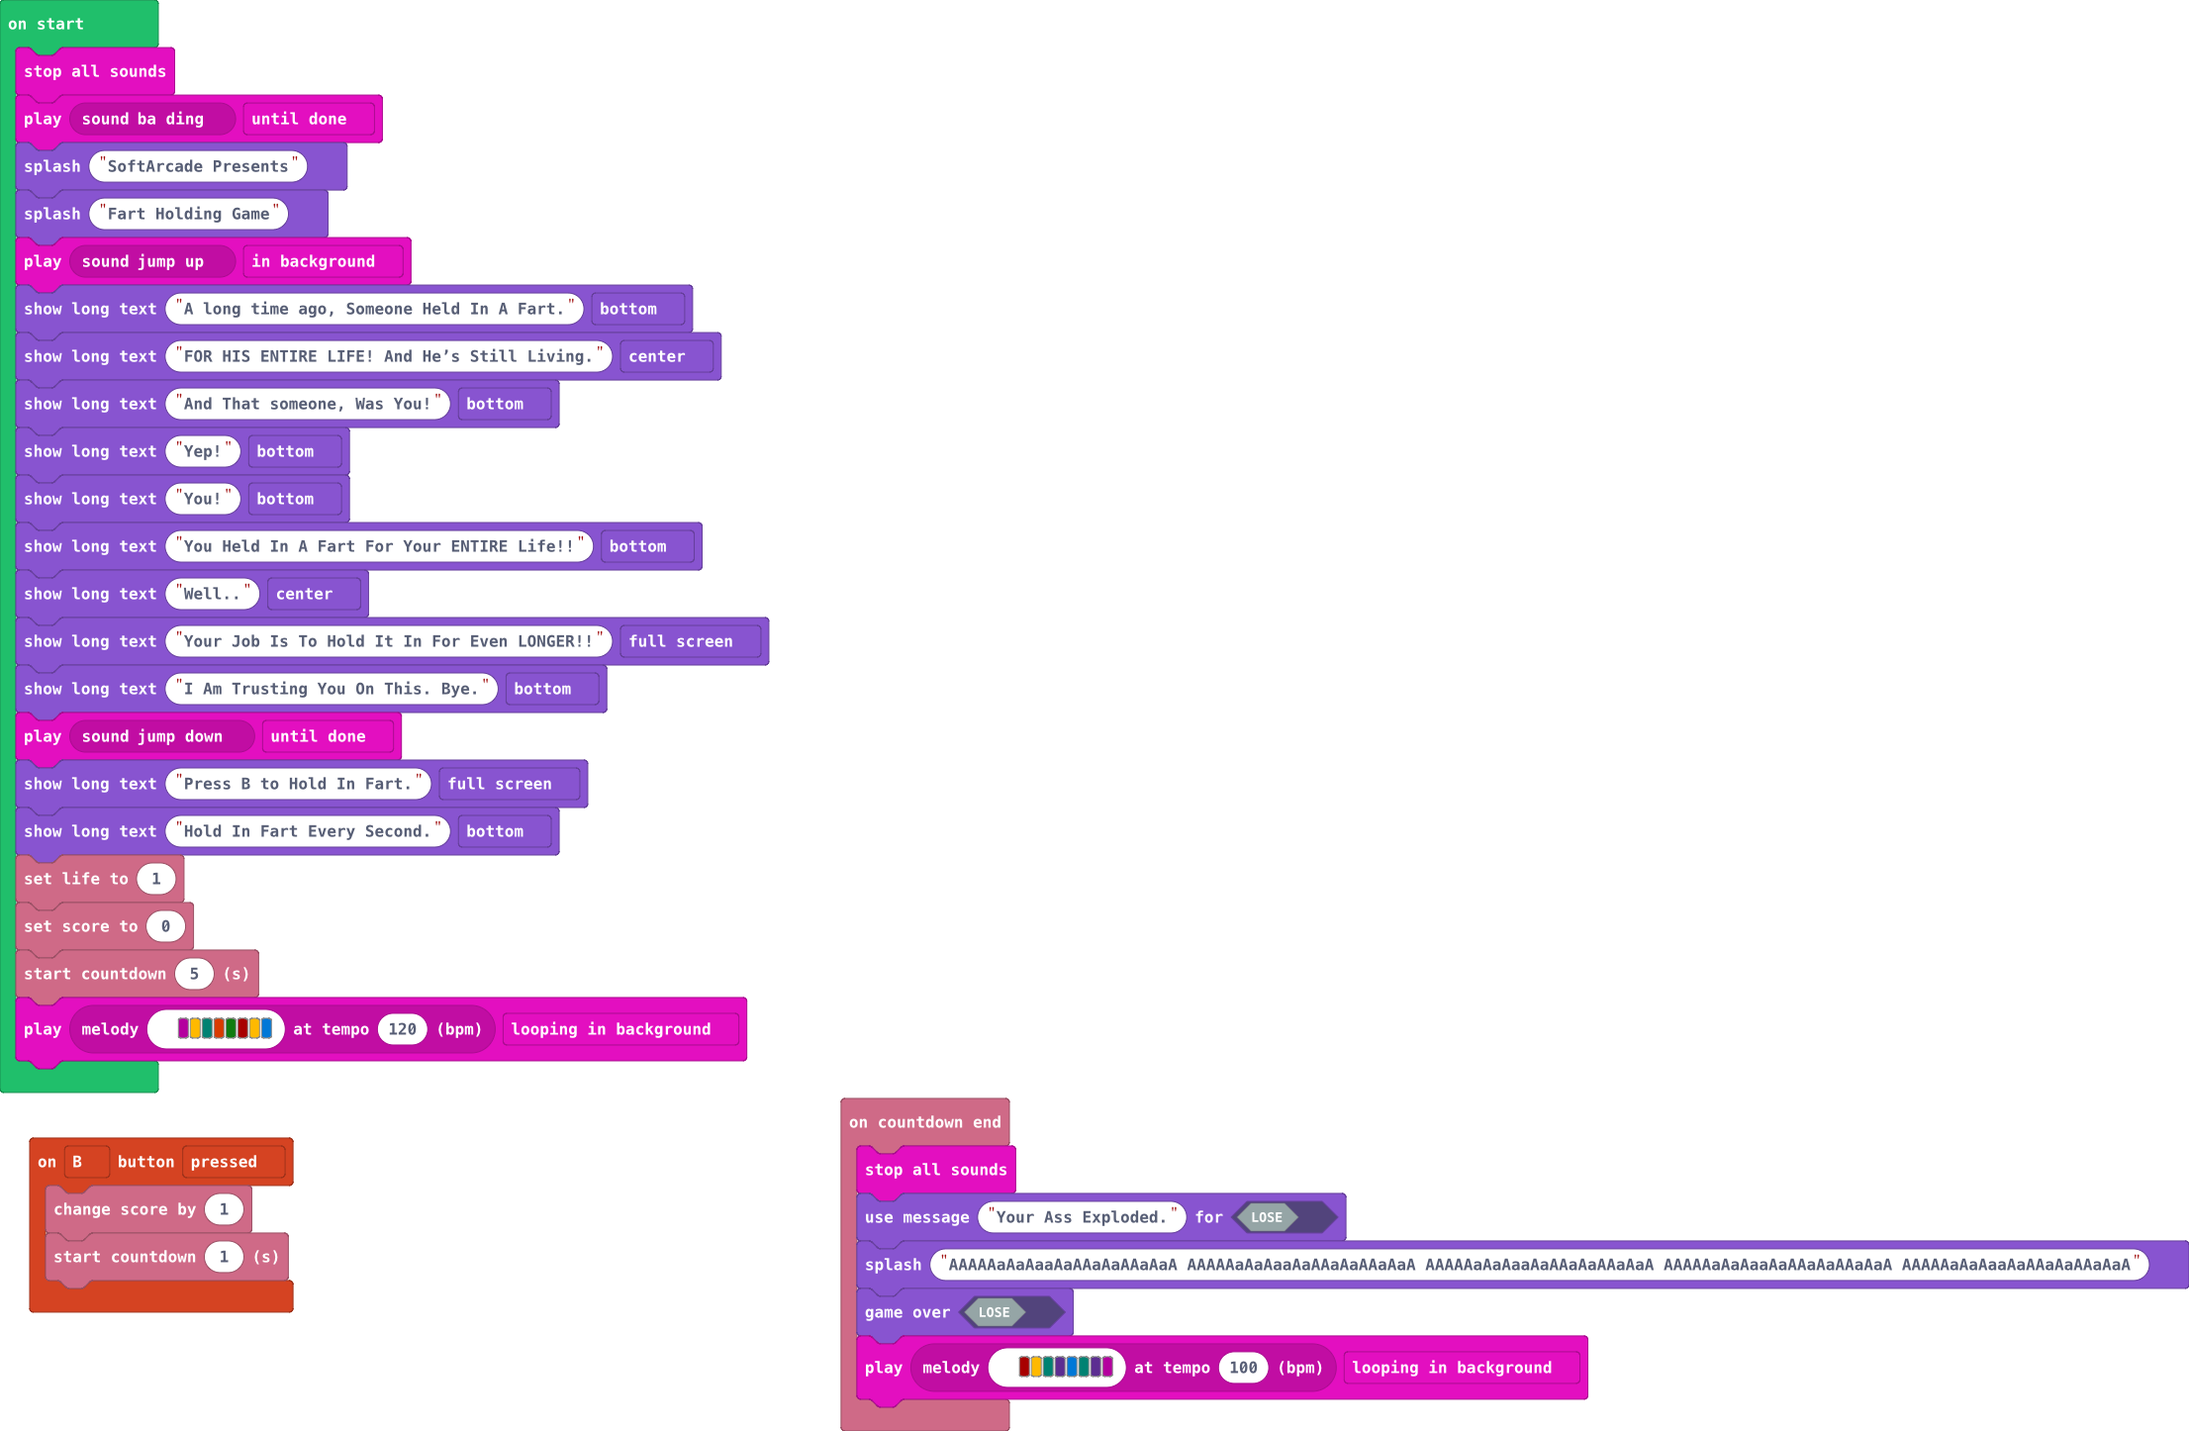
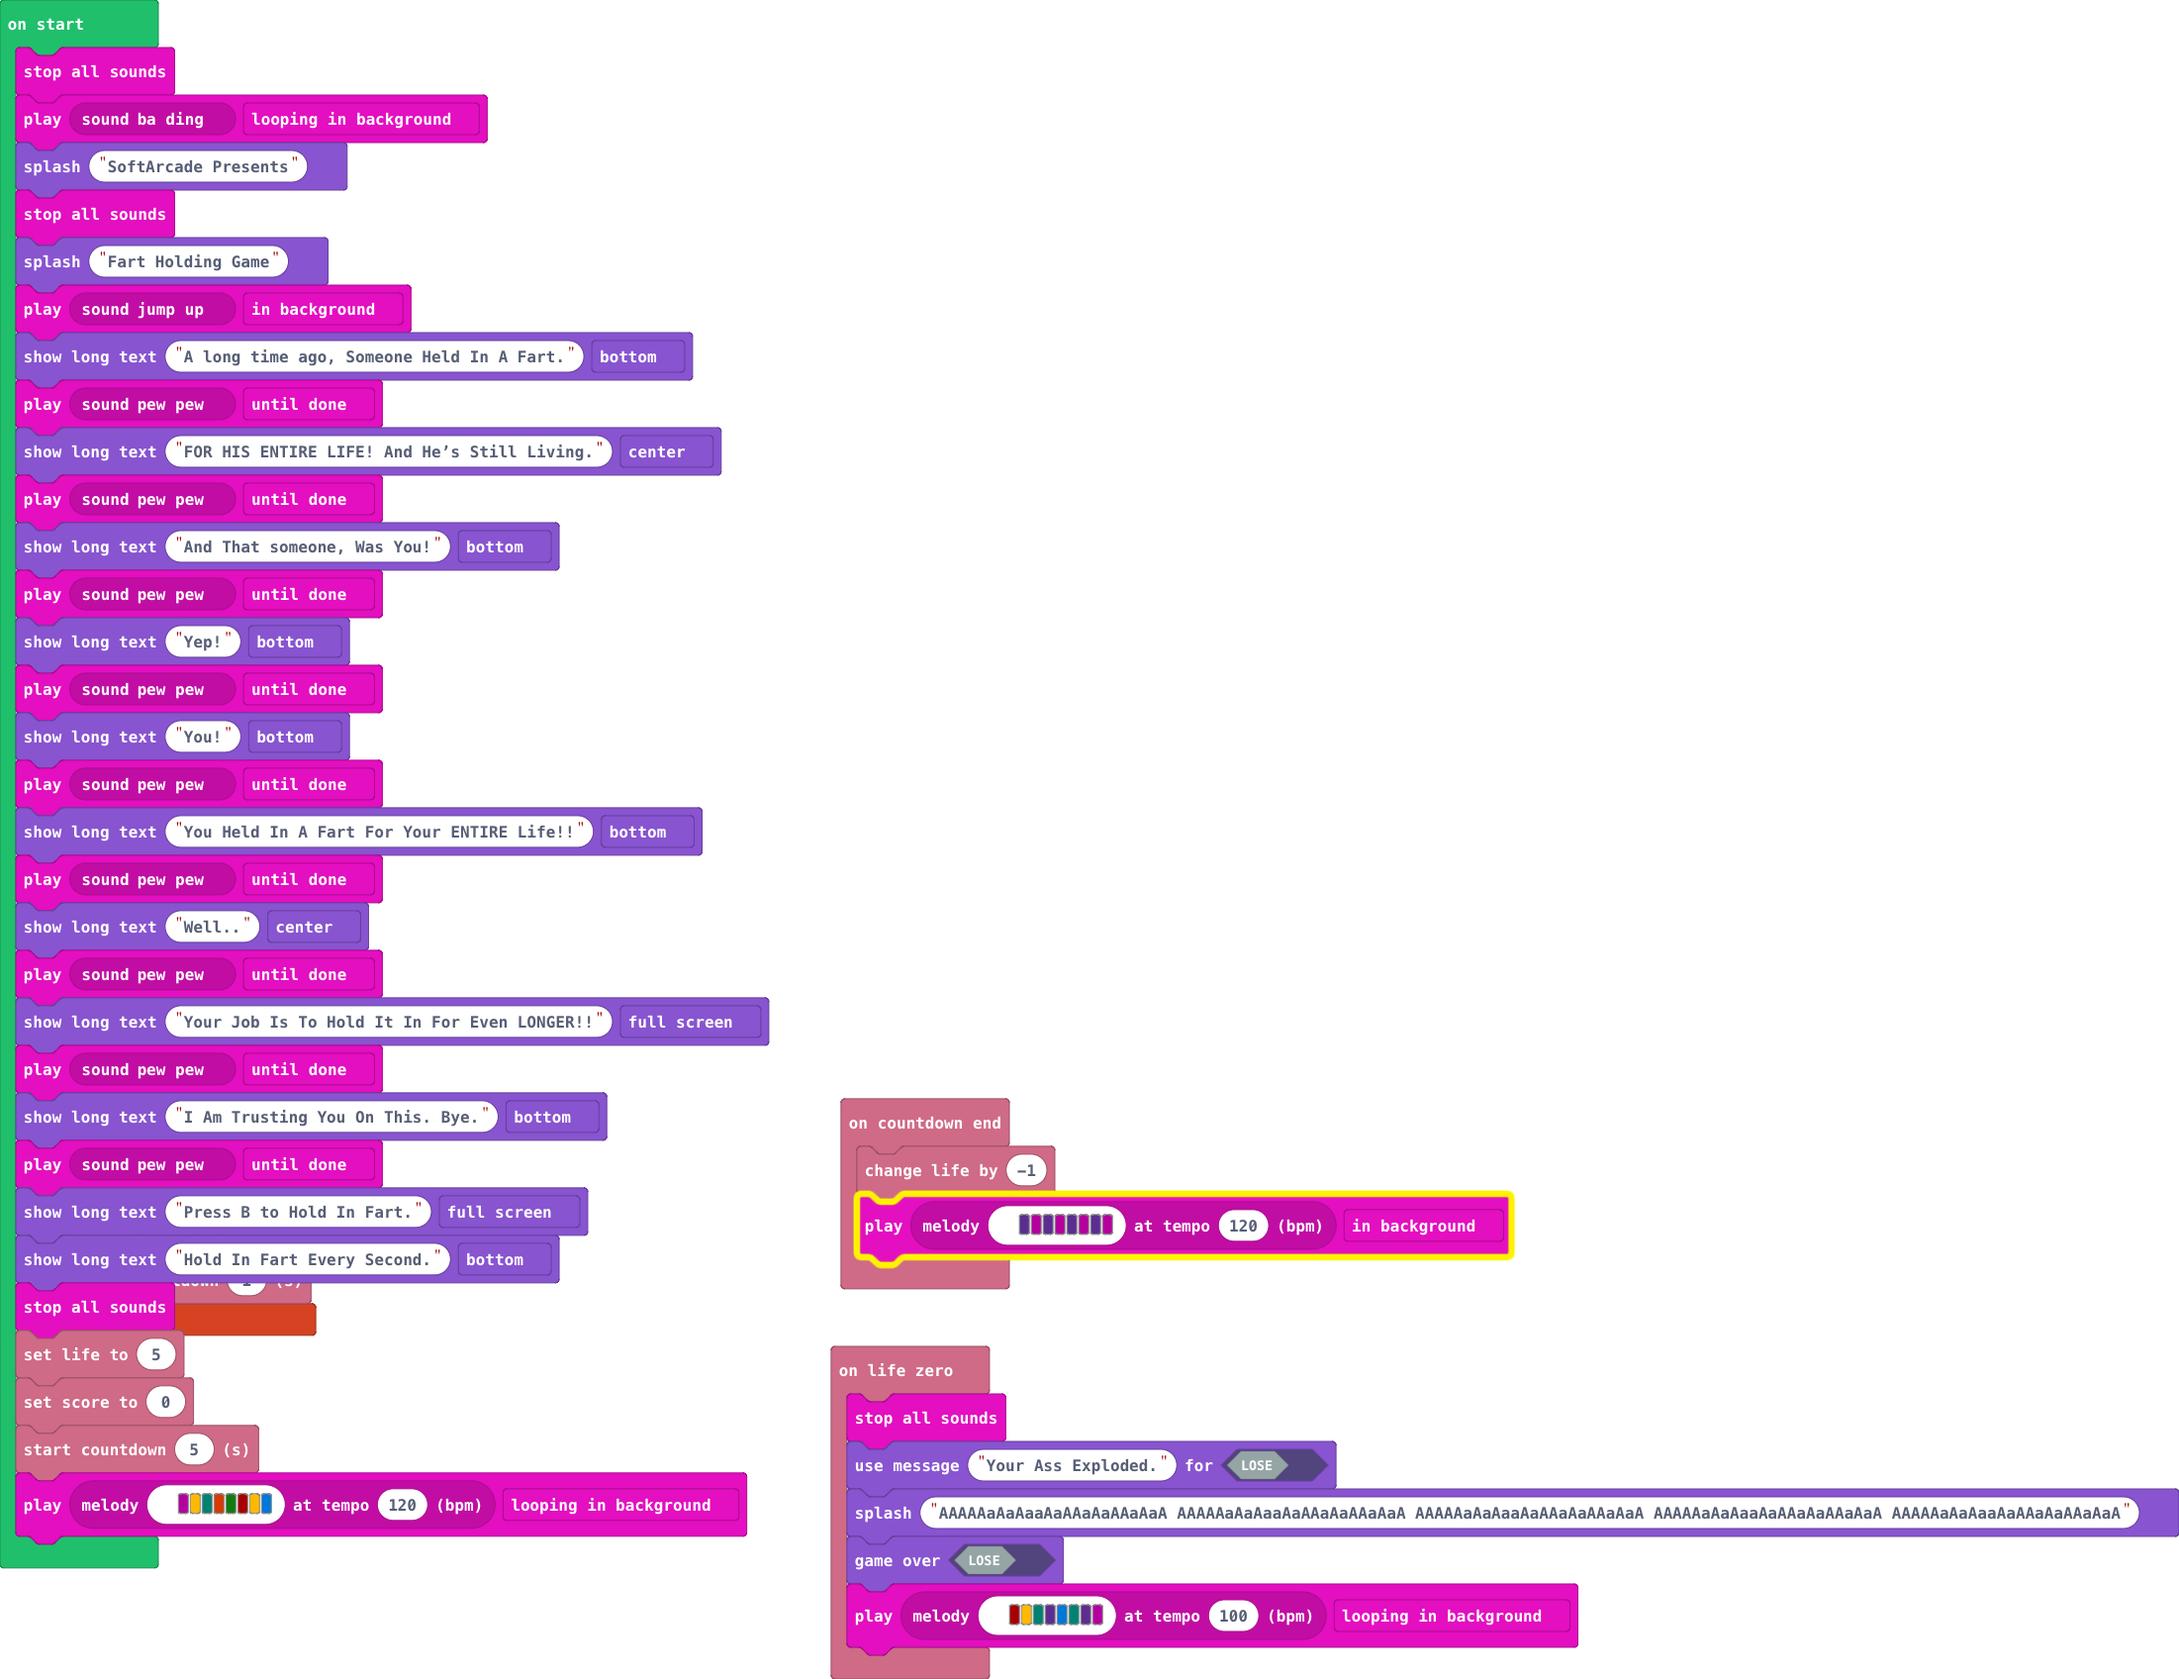
More Lives!!

Changed region(s): [[0.0, 0.0, 0.3706, 0.9336], [0.3706, 0.6535, 1.0, 1.0]]

diff --git a/main.ts b/main.ts
@@ -3,6 +3,10 @@ controller.B.onEvent(ControllerButtonEvent.Pressed, function () {
     info.startCountdown(1)
 })
 info.onCountdownEnd(function () {
+    info.changeLifeBy(-1)
+    music.play(music.stringPlayable("D C D C D C D C ", 120), music.PlaybackMode.InBackground)
+})
+info.onLifeZero(function () {
     music.stopAllSounds()
     game.setGameOverMessage(false, "Your Ass Exploded.")
     game.splash("AAAAAaAaAaaAaAAaAaAAaAaA AAAAAaAaAaaAaAAaAaAAaAaA AAAAAaAaAaaAaAAaAaAAaAaA AAAAAaAaAaaAaAAaAaAAaAaA AAAAAaAaAaaAaAAaAaAAaAaA")
@@ -10,23 +14,33 @@ info.onCountdownEnd(function () {
     music.play(music.stringPlayable("C5 A F D E F D C ", 100), music.PlaybackMode.LoopingInBackground)
 })
 music.stopAllSounds()
-music.play(music.melodyPlayable(music.baDing), music.PlaybackMode.UntilDone)
+music.play(music.melodyPlayable(music.baDing), music.PlaybackMode.LoopingInBackground)
 game.splash("SoftArcade Presents")
+music.stopAllSounds()
 game.splash("Fart Holding Game")
 music.play(music.melodyPlayable(music.jumpUp), music.PlaybackMode.InBackground)
 game.showLongText("A long time ago, Someone Held In A Fart.", DialogLayout.Bottom)
+music.play(music.melodyPlayable(music.pewPew), music.PlaybackMode.UntilDone)
 game.showLongText("FOR HIS ENTIRE LIFE! And He’s Still Living.", DialogLayout.Center)
+music.play(music.melodyPlayable(music.pewPew), music.PlaybackMode.UntilDone)
 game.showLongText("And That someone, Was You!", DialogLayout.Bottom)
+music.play(music.melodyPlayable(music.pewPew), music.PlaybackMode.UntilDone)
 game.showLongText("Yep!", DialogLayout.Bottom)
+music.play(music.melodyPlayable(music.pewPew), music.PlaybackMode.UntilDone)
 game.showLongText("You!", DialogLayout.Bottom)
+music.play(music.melodyPlayable(music.pewPew), music.PlaybackMode.UntilDone)
 game.showLongText("You Held In A Fart For Your ENTIRE Life!!", DialogLayout.Bottom)
+music.play(music.melodyPlayable(music.pewPew), music.PlaybackMode.UntilDone)
 game.showLongText("Well..", DialogLayout.Center)
+music.play(music.melodyPlayable(music.pewPew), music.PlaybackMode.UntilDone)
 game.showLongText("Your Job Is To Hold It In For Even LONGER!!", DialogLayout.Full)
+music.play(music.melodyPlayable(music.pewPew), music.PlaybackMode.UntilDone)
 game.showLongText("I Am Trusting You On This. Bye.", DialogLayout.Bottom)
-music.play(music.melodyPlayable(music.jumpDown), music.PlaybackMode.UntilDone)
+music.play(music.melodyPlayable(music.pewPew), music.PlaybackMode.UntilDone)
 game.showLongText("Press B to Hold In Fart.", DialogLayout.Full)
 game.showLongText("Hold In Fart Every Second.", DialogLayout.Bottom)
-info.setLife(1)
+music.stopAllSounds()
+info.setLife(5)
 info.setScore(0)
 info.startCountdown(5)
 music.play(music.stringPlayable("C A F B G C5 A E ", 120), music.PlaybackMode.LoopingInBackground)
